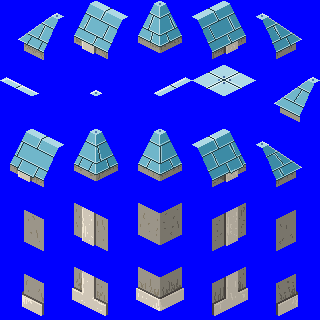
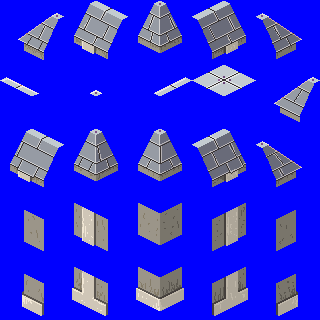
All buildings in Wujung now have a unique appearance; added some new lancemates

diff --git a/game/content/ghplots/lancemates.py b/game/content/ghplots/lancemates.py
@@ -29,6 +29,7 @@ class UtterlyRandomLancemate(Plot):
     def _is_best_scene(self,nart,candidate):
         return isinstance(candidate,pbge.scenes.Scene) and gears.tags.SCENE_PUBLIC in candidate.attributes
 
+
 class UtterlyGenericLancemate(Plot):
     LABEL = "RANDOM_LANCEMATE"
     JOBS = ("Mecha Pilot","Arena Pilot","Recon Pilot","Mercenary","Bounty Hunter")
@@ -47,6 +48,7 @@ class UtterlyGenericLancemate(Plot):
 
     def _is_best_scene(self,nart,candidate):
         return isinstance(candidate,pbge.scenes.Scene) and gears.tags.SCENE_PUBLIC in candidate.attributes
+
 
 class GiftedNewbieLancemate(Plot):
     # Amazing stats, amazingly crap skills.
@@ -115,6 +117,33 @@ class DeadzonerInGreenZoneLancemate(Plot):
 
     def _is_best_scene(self,nart,candidate):
         return isinstance(candidate,pbge.scenes.Scene) and gears.tags.SCENE_PUBLIC in candidate.attributes
+
+
+class GladiatorLancemate(Plot):
+    LABEL = "RANDOM_LANCEMATE"
+    UNIQUE = True
+
+    @classmethod
+    def matches( self, pstate ):
+        """Returns True if this plot matches the current plot state."""
+        return gears.personality.DeadZone in pstate.elements["METROSCENE"].attributes
+
+    def custom_init(self, nart):
+        npc = gears.selector.random_character(statline=gears.base.Being.random_stats(random.randint(80, 110)),
+                                              rank=random.randint(25, 65),can_cyberize=True,
+                                              job=gears.jobs.ALL_JOBS["Gladiator"],
+                                              mecha_colors=gears.color.random_mecha_colors(),
+                                              local_tags=(gears.personality.DeadZone,),
+                                              combatant=True)
+        scene = self.seek_element(nart, "LOCALE", self._is_best_scene, scope=self.elements["METROSCENE"])
+
+        self.register_element("NPC", npc, dident="LOCALE")
+        self.add_sub_plot(nart, "RLM_Relationship")
+        return True
+
+    def _is_best_scene(self,nart,candidate):
+        return isinstance(candidate,pbge.scenes.Scene) and gears.tags.SCENE_PUBLIC in candidate.attributes
+
 
 class MutantLancemate(Plot):
     LABEL = "RANDOM_LANCEMATE"
@@ -357,7 +386,7 @@ class RLM_Mercenary(Plot):
     def NPC_offers(self, camp):
         mylist = list()
         npc = self.elements["NPC"]
-        self.hire_cost = npc.renown * (150 - npc.get_reaction_score(camp.pc, camp))
+        self.hire_cost = npc.renown * (200 - npc.get_reaction_score(camp.pc, camp))
         if gears.relationships.RT_LANCEMATE not in npc.relationship.tags:
             if camp.can_add_lancemate():
                 mylist.append(Offer("I'll join your lance for a mere ${}. [DOYOUACCEPTMYOFFER]".format(self.hire_cost),
@@ -502,10 +531,10 @@ class RLM_RatherGeneric(Plot):
     def NPC_offers(self, camp):
         mylist = list()
         npc = self.elements["NPC"]
-        self.hire_cost = npc.renown * (125 - npc.get_reaction_score(camp.pc, camp))
+        self.hire_cost = npc.renown * (175 - npc.get_reaction_score(camp.pc, camp))
         if gears.relationships.RT_LANCEMATE not in npc.relationship.tags:
             if camp.can_add_lancemate():
-                if npc.get_reaction_score(camp.pc, camp) > 20:
+                if npc.get_reaction_score(camp.pc, camp) > 60:
                     mylist.append(Offer("[IWOULDLOVETO] [THANKS_FOR_CHOOSING_ME]",
                                         context=ContextTag((context.PROPOSAL, context.JOIN)),
                                         data={"subject": "joining my lance"},
@@ -558,6 +587,91 @@ class RLM_RatherGeneric(Plot):
             mynpc = self.elements["NPC"]
             goffs.append(Offer(
                 msg="You can find {} at {}.".format(mynpc,mynpc.get_scene()),
+                context=ContextTag((context.INFO,)), effect=self._get_rumor,
+                subject=str(mynpc), data={"subject": str(mynpc)}, no_repeats=True
+            ))
+        return goffs
+
+    def _get_rumor(self,camp):
+        mynpc = self.elements["NPC"]
+        self._got_rumor = True
+        self.memo = "{} at {} is looking for a new lance.".format(mynpc,mynpc.get_scene())
+
+
+class RLM_DamagedGoodsSale(Plot):
+    LABEL = "RLM_Relationship"
+    active = True
+    scope = True
+    UNIQUE = True
+
+    def custom_init(self, nart):
+        npc = self.elements["NPC"]
+        npc.relationship = gears.relationships.Relationship(expectation=gears.relationships.E_IMPROVER)
+        # This NPC gets a stat bonus but a crappy mech to show their history.
+        npc.relationship.data["mecha_level_bonus"] = -15
+        npc.roll_stats(5, clear_first=False)
+        self._got_rumor = False
+        return True
+
+    def NPC_offers(self, camp):
+        mylist = list()
+        npc = self.elements["NPC"]
+        self.hire_cost = npc.renown * (125 - npc.get_reaction_score(camp.pc, camp))
+        if gears.relationships.RT_LANCEMATE not in npc.relationship.tags:
+            if camp.can_add_lancemate():
+                if npc.get_reaction_score(camp.pc, camp) > 20:
+                    mylist.append(Offer("[IWOULDLOVETO] I'll do my best to not let you down.",
+                                        context=ContextTag((context.PROPOSAL, context.JOIN)),
+                                        data={"subject": "joining my lance"},
+                                        effect=self._join_lance
+                                        ))
+                else:
+                    mylist.append(Offer("I'll sign up with you for just ${}. [DOYOUACCEPTMYOFFER]".format(self.hire_cost),
+                                        context=ContextTag((context.PROPOSAL, context.JOIN)),
+                                        data={"subject": "joining my lance"},
+                                        subject=self, subject_start=True,
+                                        ))
+                    mylist.append(Offer("[DENY_JOIN] [GOODBYE]",
+                                        context=ContextTag((context.DENY, context.JOIN)), subject=self
+                                        ))
+                    if camp.credits >= self.hire_cost:
+                        mylist.append(Offer("[THANKS_FOR_CHOOSING_ME] I'll do my best to not let you down.",
+                                            context=ContextTag((context.ACCEPT, context.JOIN)), subject=self,
+                                            effect=self._pay_to_join
+                                            ))
+                mylist.append(Offer(
+                    "[HELLO] The life of a cavalier is full of ups and downs... right now I'm in one of those downs.", context=ContextTag((context.HELLO,))
+                ))
+            else:
+                mylist.append(Offer(
+                    "[HELLO] Be careful out there... all it takes is one little mistake to cost you everything.", context=ContextTag((context.HELLO,))
+                ))
+        return mylist
+
+    def get_dialogue_grammar(self, npc, camp):
+        mygram = dict()
+        if camp.scene.get_root_scene() is self.elements["METROSCENE"] and npc is not self.elements["NPC"]:
+            mygram["[News]"] = ["{NPC} is a down on {NPC.gender.possessive_determiner} luck cavalier looking for another chance".format(**self.elements), ]
+        return mygram
+
+    def _pay_to_join(self,camp):
+        camp.credits -= self.hire_cost
+        self._join_lance(camp)
+
+    def _join_lance(self, camp):
+        npc = self.elements["NPC"]
+        npc.relationship.tags.add(gears.relationships.RT_LANCEMATE)
+        effect = game.content.plotutility.AutoJoiner(npc)
+        effect(camp)
+        self.end_plot(camp)
+
+    def _get_generic_offers(self, npc, camp):
+        """Get any offers that could apply to non-element NPCs."""
+        goffs = list()
+        if camp.scene.get_root_scene() is self.elements["METROSCENE"] and npc is not self.elements["NPC"] and not self._got_rumor:
+            mynpc = self.elements["NPC"]
+            goffs.append(Offer(
+                msg="You can find {} at {}. Don't say that you weren't warned.".format(mynpc,mynpc.get_scene()),
                 context=ContextTag((context.INFO,)), effect=self._get_rumor,
                 subject=str(mynpc), data={"subject": str(mynpc)}, no_repeats=True
             ))

diff --git a/game/content/ghplots/dd_homebase.py b/game/content/ghplots/dd_homebase.py
@@ -58,7 +58,6 @@ class DZD_Wujung(Plot):
         nart.camp.home_base = (myscene, westgate)
 
         # Add the services.
-        tplot = self.add_sub_plot(nart, "DZDHB_AlliedArmor")
         tplot = self.add_sub_plot(nart, "DZDHB_WujungTires")
         tplot = self.add_sub_plot(nart, "DZDHB_EliteEquipment")
         tplot = self.add_sub_plot(nart, "DZDHB_BlueFortress")
@@ -487,11 +486,8 @@ class DZD_AlliedArmor(Plot):
     scope = "INTERIOR"
 
     def custom_init(self, nart):
-        # Create a building within the town.
-        building = self.register_element("_EXTERIOR", game.content.ghterrain.BrickBuilding(
-            waypoints={"DOOR": ghwaypoints.ScrapIronDoor(name="Allied Armor")},
-            door_sign=(game.content.ghterrain.AlliedArmorSignEast, game.content.ghterrain.AlliedArmorSignSouth),
-            tags=[pbge.randmaps.CITY_GRID_ROAD_OVERLAP]), dident="LOCALE")
+        # Sharing a building with Elite Equipment.
+        building = self.elements["EXTERIOR"]
 
         # Add the interior scene.
         team1 = teams.Team(name="Player Team")
@@ -510,7 +506,7 @@ class DZD_AlliedArmor(Plot):
 
         mycon2 = game.content.plotutility.TownBuildingConnection(self, self.elements["LOCALE"], intscene,
                                                                  room1=building,
-                                                                 room2=foyer, door1=building.waypoints["DOOR"],
+                                                                 room2=foyer, door1=building.waypoints["OTHER"],
                                                                  move_door1=False)
 
         npc = self.register_element("SHOPKEEPER",
@@ -630,7 +626,7 @@ class DZD_WujungTires(Plot):
     def custom_init(self, nart):
         # Create a building within the town.
         building = self.register_element("_EXTERIOR", game.content.ghterrain.IndustrialBuilding(
-            waypoints={"DOOR": ghwaypoints.ScrapIronDoor(name="Wujung Tires")},
+            waypoints={"DOOR": ghwaypoints.GlassDoor(name="Wujung Tires")},
             door_sign=(game.content.ghterrain.FixitShopSignEast, game.content.ghterrain.FixitShopSignSouth),
             tags=[pbge.randmaps.CITY_GRID_ROAD_OVERLAP]), dident="LOCALE")
 
@@ -646,6 +642,7 @@ class DZD_WujungTires(Plot):
         foyer = self.register_element('_introom', pbge.randmaps.rooms.ClosedRoom(anchor=pbge.randmaps.anchors.south,
                                                                                  decorate=game.content.gharchitecture.CheeseShopDecor()),
                                       dident="INTERIOR")
+        foyer.contents.append(ghwaypoints.MechEngTerminal())
 
         mycon2 = game.content.plotutility.TownBuildingConnection(self, self.elements["LOCALE"], intscene,
                                                                  room1=building,
@@ -685,9 +682,13 @@ class DZD_EliteEquipment(Plot):
 
     def custom_init(self, nart):
         # Create a building within the town.
-        building = self.register_element("_EXTERIOR", game.content.ghterrain.BrickBuilding(
-            waypoints={"DOOR": ghwaypoints.ScrapIronDoor(name="Elite Equipment")},
+        building = self.register_element("EXTERIOR", game.content.ghterrain.CommercialBuilding(
+            waypoints={"DOOR": ghwaypoints.GlassDoor(name="Elite Equipment"),"OTHER": ghwaypoints.GlassDoor(name="Allied Armor")},
+            door_sign=(game.content.ghterrain.CrossedSwordsTerrainEast, game.content.ghterrain.CrossedSwordsTerrainSouth),
+            other_sign=(game.content.ghterrain.AlliedArmorSignEast,game.content.ghterrain.AlliedArmorSignSouth),
             tags=[pbge.randmaps.CITY_GRID_ROAD_OVERLAP]), dident="LOCALE")
+
+        tplot = self.add_sub_plot(nart, "DZDHB_AlliedArmor")
 
         # Add the interior scene.
         team1 = teams.Team(name="Player Team")
@@ -741,7 +742,7 @@ class DZD_WujungHospital(Plot):
     def custom_init(self, nart):
         # Create a building within the town.
         building = self.register_element("_EXTERIOR", game.content.ghterrain.WhiteBrickBuilding(
-            waypoints={"DOOR": ghwaypoints.WoodenDoor(name="Wujung Hospital")},
+            waypoints={"DOOR": ghwaypoints.GlassDoor(name="Wujung Hospital")},
             door_sign=(game.content.ghterrain.HospitalSignEast, game.content.ghterrain.HospitalSignSouth),
             tags=[pbge.randmaps.CITY_GRID_ROAD_OVERLAP]), dident="LOCALE")
 
@@ -932,7 +933,7 @@ class DZD_LongRoadLogistics(Plot):
 
     def custom_init(self, nart):
         # Create a building within the town.
-        building = self.register_element("_EXTERIOR", game.content.ghterrain.BrickBuilding(
+        building = self.register_element("_EXTERIOR", game.content.ghterrain.ConcreteBuilding(
             waypoints={"DOOR": ghwaypoints.WoodenDoor(name="Long Road Logistics")},
             tags=[pbge.randmaps.CITY_GRID_ROAD_OVERLAP]), dident="LOCALE")
 

diff --git a/game/content/ghterrain.py b/game/content/ghterrain.py
@@ -261,6 +261,9 @@ class ScrapIronBuildingTerrain(pbge.scenes.terrain.TerrSetTerrain):
 class ScrapIronDoorTerrain(pbge.scenes.terrain.OnTheWallTerrain):
     image_top = 'terrain_decor_scrapirondoor.png'
 
+class GlassDoorTerrain(pbge.scenes.terrain.OnTheWallTerrain):
+    image_top = 'terrain_decor_glassdoor.png'
+
 class JunkWindowSouth(pbge.scenes.terrain.VariableTerrain):
     frames = (5,6,7)
     image_top = 'terrain_decor_junkwindows.png'
@@ -363,6 +366,18 @@ class RustyFixitShopSignEast(pbge.scenes.terrain.Terrain):
     image_top = 'terrain_decor_fixitsign_rusty.png'
 
 
+class CrossedSwordsTerrain(pbge.scenes.terrain.OnTheWallTerrain):
+    image_top = 'terrain_decor_crossedswords.png'
+
+class CrossedSwordsTerrainSouth(pbge.scenes.terrain.Terrain):
+    frame = 0
+    image_top = 'terrain_decor_crossedswords.png'
+
+class CrossedSwordsTerrainEast(pbge.scenes.terrain.Terrain):
+    frame = 1
+    image_top = 'terrain_decor_crossedswords.png'
+
+
 class ScrapIronBuilding(pbge.randmaps.terrset.BuildingSet):
     TERRAIN_TYPE = ScrapIronBuildingTerrain
     DEFAULT_DECOR_OPTIONS = (pbge.randmaps.terrset.WallDecor((JunkWindowSouth,), (JunkWindowEast,)),
@@ -431,6 +446,38 @@ class IndustrialBuilding(pbge.randmaps.terrset.BuildingSet):
     GF3_TILE = (22,)
     GF4_TILE = (23,)
     GF5_TILE = (24,)
+
+class CommercialBuildingTerrain(pbge.scenes.terrain.TerrSetTerrain):
+    image_bottom = 'terrain_building_commercial_b.png'
+    image_top = 'terrain_building_commercial.png'
+    blocks = (Walking,Skimming,Rolling,Flying)
+
+class CommercialBuilding(pbge.randmaps.terrset.BuildingSet):
+    TERRAIN_TYPE = CommercialBuildingTerrain
+    UF1_TILE = (15,)
+    UF2_TILE = (16,)
+    UF3_TILE = (17,)
+    UF4_TILE = (18,)
+    UF5_TILE = (19,)
+    GF1_TILE = (20,)
+    GF2_TILE = (21,)
+    GF3_TILE = (22,)
+    GF4_TILE = (23,)
+    GF5_TILE = (24,)
+
+
+class ConcreteBuildingTerrain(pbge.scenes.terrain.TerrSetTerrain):
+    image_bottom = 'terrain_building_concrete_b.png'
+    image_top = 'terrain_building_concrete.png'
+    blocks = (Walking,Skimming,Rolling,Flying)
+
+
+class ConcreteBuilding(pbge.randmaps.terrset.BuildingSet):
+    TERRAIN_TYPE = ConcreteBuildingTerrain
+    DEFAULT_DECOR_OPTIONS = (pbge.randmaps.terrset.WallDecor((WindowSouth,), (WindowEast,)),
+                             pbge.randmaps.terrset.WallHanger(SteelPipeSouthTop,SteelPipeSouthMid,SteelPipeSouthMid,SteelPipeEastTop,SteelPipeEastMid,SteelPipeEastMid),
+                             pbge.randmaps.terrset.RoofDecor((RoofStuff,)),
+                             )
 
 
 class ScreenDoorTerrain(pbge.scenes.terrain.OnTheWallTerrain):

diff --git a/game/content/ghplots/dd_roadstops.py b/game/content/ghplots/dd_roadstops.py
@@ -76,10 +76,8 @@ class DZD_DeadZoneTown(Plot):
         #tplot = self.add_sub_plot(nart, "DZDHB_BlueFortress")
         #tplot = self.add_sub_plot(nart, "DZDHB_BronzeHorseInn")
         #tplot = self.add_sub_plot(nart, "DZDHB_LongRoadLogistics")
-        # Black Isle Pub
-        # Wujung Tires - Conversion supplies
-        # Hwang-Sa Mission
-        # Reconstruction Site
+
+        self.add_sub_plot(nart, "RANDOM_LANCEMATE")
 
         # Add the local tarot.
         #threat_card = nart.add_tarot_card(self, (game.content.ghplots.dd_tarot.MT_THREAT,), )
@@ -163,10 +161,8 @@ class DZD_DeadZoneVillage(Plot):
         #tplot = self.add_sub_plot(nart, "DZDHB_BlueFortress")
         #tplot = self.add_sub_plot(nart, "DZDHB_BronzeHorseInn")
         #tplot = self.add_sub_plot(nart, "DZDHB_LongRoadLogistics")
-        # Black Isle Pub
-        # Wujung Tires - Conversion supplies
-        # Hwang-Sa Mission
-        # Reconstruction Site
+
+        self.add_sub_plot(nart, "RANDOM_LANCEMATE")
 
         # Add the local tarot.
         #threat_card = nart.add_tarot_card(self, (game.content.ghplots.dd_tarot.MT_THREAT,), )

diff --git a/game/content/ghrooms.py b/game/content/ghrooms.py
@@ -30,7 +30,7 @@ class ForestRoom(FuzzyRoom):
         else:
             mydest = pygame.Rect(0,0,3,3)
             mydest.center = self.area.center
-            gb.fill(mydest,floor=ghterrain.Forest)
+            gb.fill(mydest,wall=ghterrain.Forest)
 
 
 class LakeRoom(FuzzyRoom):
@@ -80,5 +80,5 @@ class MSRuinsRoom(FuzzyRoom):
         else:
             mydest = pygame.Rect(0, 0, 3, 3)
             mydest.center = self.area.center
-            gb.fill(mydest, floor=ghterrain.MSRuinedWall)
+            gb.fill(mydest, wall=ghterrain.MSRuinedWall)
 

diff --git a/game/content/ghwaypoints.py b/game/content/ghwaypoints.py
@@ -73,6 +73,12 @@ class ScrapIronDoor(Exit):
     TILE = pbge.scenes.Tile(None,None,ghterrain.ScrapIronDoorTerrain)
     desc = "A door."
 
+class GlassDoor(Exit):
+    name = 'Door'
+    ATTACH_TO_WALL = True
+    TILE = pbge.scenes.Tile(None,None,ghterrain.GlassDoorTerrain)
+    desc = "A door."
+
 class ScreenDoor(Exit):
     name = 'Door'
     ATTACH_TO_WALL = True
